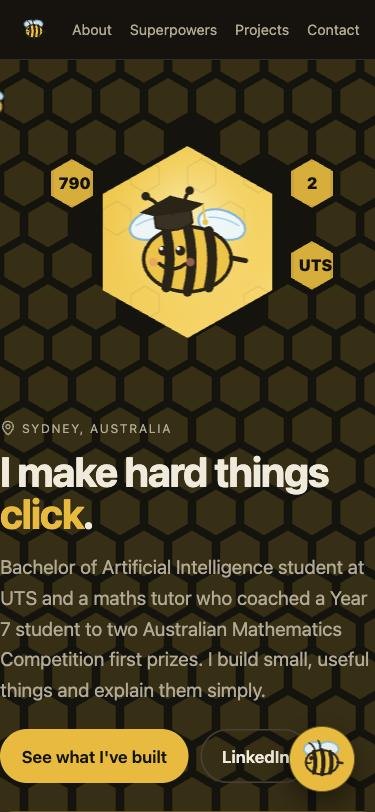
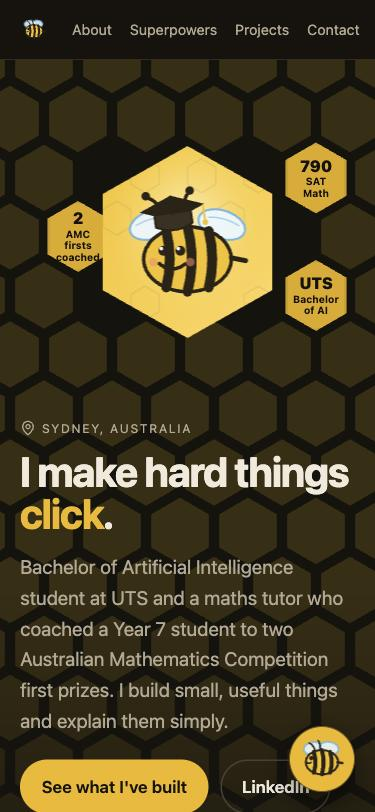
Full-bleed honeycomb hero with exact hex tiling and a bottom fade

diff --git a/styles.css b/styles.css
@@ -59,7 +59,9 @@ a { color: inherit; }
 main { max-width: var(--max); margin: 0 auto; padding: 0 20px; }
 
 /* Hero: asymmetric 7/5 */
-.hero { position: relative; overflow: clip; margin: 0 -20px; padding-left: 20px; padding-right: 20px; display: grid; grid-template-columns: 7fr 5fr; gap: 40px; align-items: center; padding: 88px 0 56px; }
+.hero { position: relative; overflow: clip; display: grid; grid-template-columns: 7fr 5fr; gap: 40px; align-items: center;
+  /* full-bleed: the hero spans the viewport, its content stays on the page column */
+  margin: 0 calc(50% - 50vw - 24px); padding: 88px calc(50vw - 50% + 24px) 56px; }
 .flyer { position: absolute; width: 64px; height: 64px; top: 24px; left: -8%; cursor: pointer; animation: fly 16s linear infinite; z-index: 3; }
 .flyer.follow { animation: none; left: 0; top: 0; will-change: transform; }
 @keyframes fly {
@@ -81,7 +83,8 @@ main { max-width: var(--max); margin: 0 auto; padding: 0 20px; }
 .hint .ic { color: var(--accent); margin-top: 2px; }
 
 .hero-art { position: relative; display: grid; place-items: center; min-height: 420px; }
-.comb { position: absolute; inset: 0; z-index: 0; }
+.comb { position: absolute; inset: 0; z-index: 0;
+  -webkit-mask-image: linear-gradient(to bottom, #000 55%, transparent 100%); mask-image: linear-gradient(to bottom, #000 55%, transparent 100%); }
 .hero-text, .hero-art { position: relative; z-index: 1; }
 .cell { position: absolute; width: var(--cw); height: var(--ch); clip-path: polygon(50% 0, 100% 25%, 100% 75%, 50% 100%, 0 75%, 0 25%);
   background: var(--accent); opacity: calc(var(--cell-base) + var(--glow, 0) * .7); transform: scale(calc(.9 + var(--glow, 0) * .12));
@@ -224,7 +227,7 @@ footer { text-align: center; color: var(--muted); font-size: .9rem; padding: 36p
 .buzz-form button { padding: 9px 14px; border-radius: var(--r-pill); border: none; background: var(--accent); color: var(--accent-ink); font-weight: 700; cursor: pointer; }
 
 @media (max-width: 860px) {
-  .hero { grid-template-columns: 1fr; gap: 24px; padding: 32px 0 40px; }
+  .hero { grid-template-columns: 1fr; gap: 24px; padding-top: 32px; padding-bottom: 40px; }
   .hero-art { order: -1; min-height: 240px; }
   .avatar { width: 170px; height: 192px; }
   .orbit { width: 240px; height: 240px; }

diff --git a/script.js b/script.js
@@ -158,7 +158,9 @@
     cells = [];
     const W = comb.clientWidth, H = comb.clientHeight;
     const small = W < 420;
-    const cw = small ? 44 : 62, ch = cw * 1.1547, dx = cw + 4, dy = ch * 0.75 + 3;
+    const cw = small ? 44 : (W > 1500 ? 78 : 64), ch = cw * 1.1547, gap = small ? 3 : 4;
+    // exact pointy-top tiling: horizontal pitch = width + gap, vertical pitch = 3/4 height + gap * cos(30deg)
+    const dx = cw + gap, dy = ch * 0.75 + gap * 0.866;
     comb.style.setProperty('--cw', cw + 'px');
     comb.style.setProperty('--ch', ch + 'px');
     const cols = Math.ceil(W / dx) + 1, rows = Math.ceil(H / dy) + 1;
